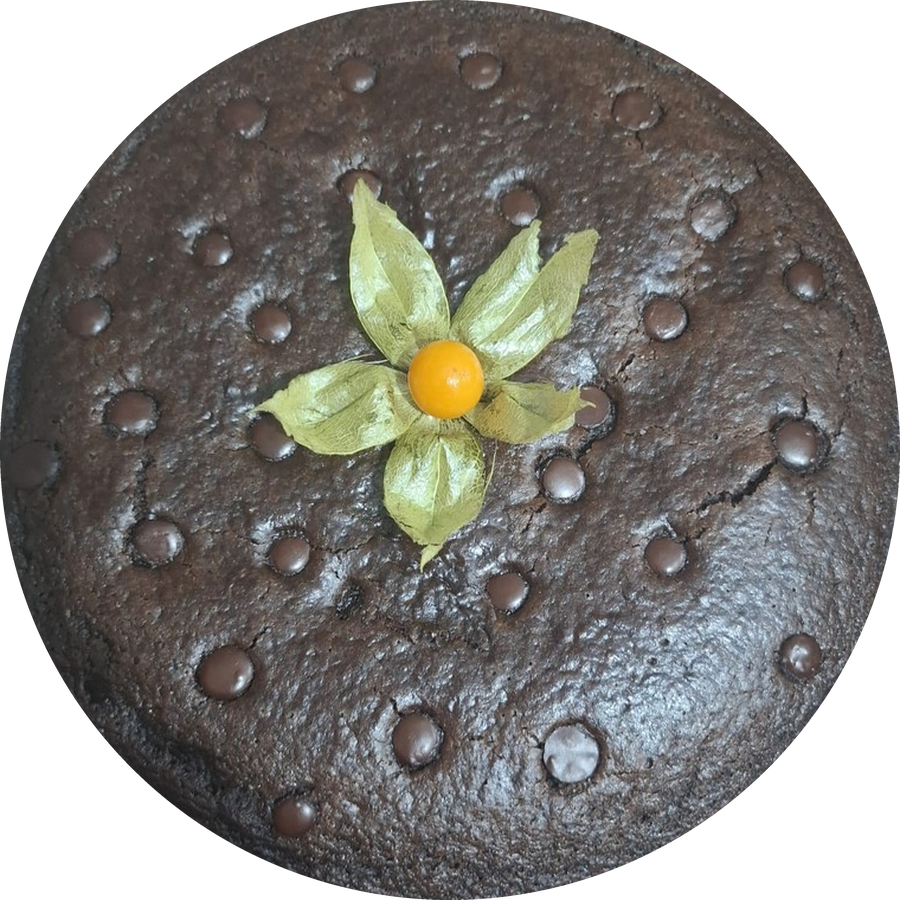
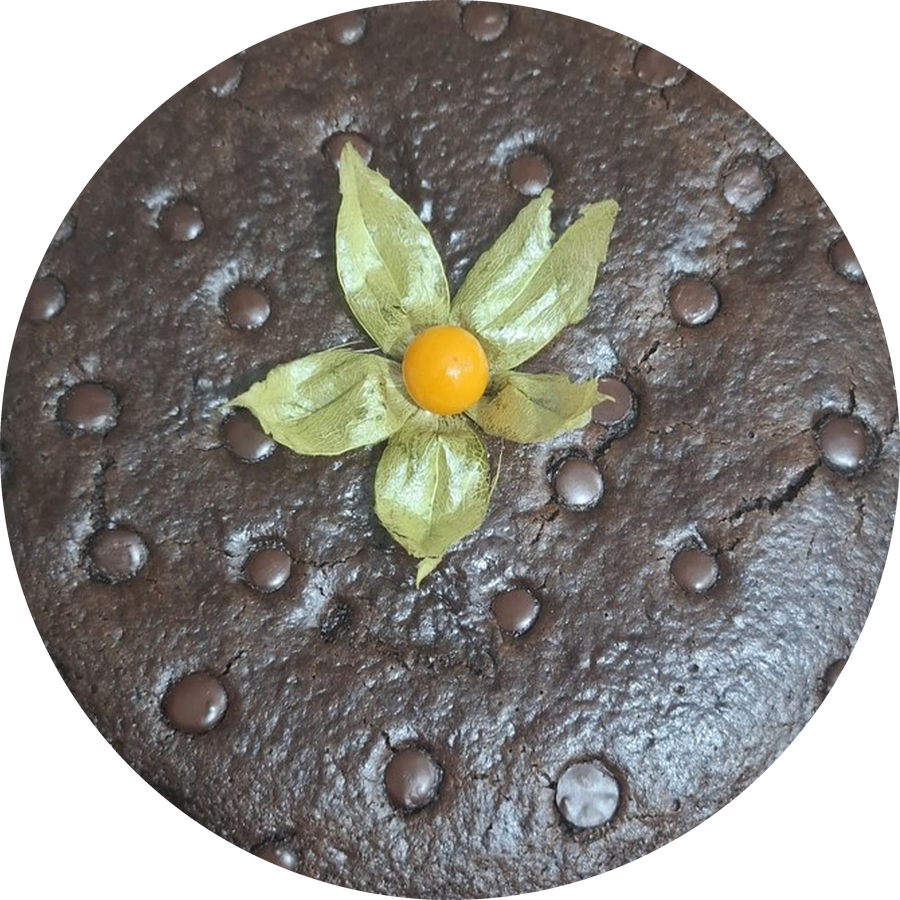
fix: tighter cake cutout and correct lemon cake photo

diff --git a/scripts/prepare_assets.py b/scripts/prepare_assets.py
@@ -69,7 +69,7 @@ def logo(img, cor, destino, corte=None):
 
 # ---- Fotos do cardápio: id -> imagem ----
 CARDAPIO = {
-    "classico-limao-mirtilos": GPT[9],
+    "classico-limao-mirtilos": SET[1],
     "classico-banana-amoras": SET[21],
     "classico-banana-maca": SET[20],
     "classico-cacau-tamaras": SET[19],
@@ -125,7 +125,8 @@ def main():
         salvar_jpg(img, OUT / "cardapio" / f"{id_}.jpg")
     # Bolo visto de cima (ajustar BOLO_* olhando a prévia gerada)
     b = SET[19]
-    BOLO_CX, BOLO_CY, BOLO_R = 440, 458, 380  # bolo ocupa x≈35–845, y≈62–855 em 872x894
+    assert b.size == (872, 894), b.size  # fonte mudou: reajustar BOLO_*
+    BOLO_CX, BOLO_CY, BOLO_R = 440, 458, 335  # círculo inscrito no topo do bolo (sem caixa/prato)
     circulo(b, BOLO_CX, BOLO_CY, BOLO_R, 900).save(OUT / "bolo-topo.png", optimize=True)
     # Logo real (TODO(conteúdo) P10: substituir por vetor oficial)
     logo(GPT[4], (31, 45, 74), OUT / "logo.png")
